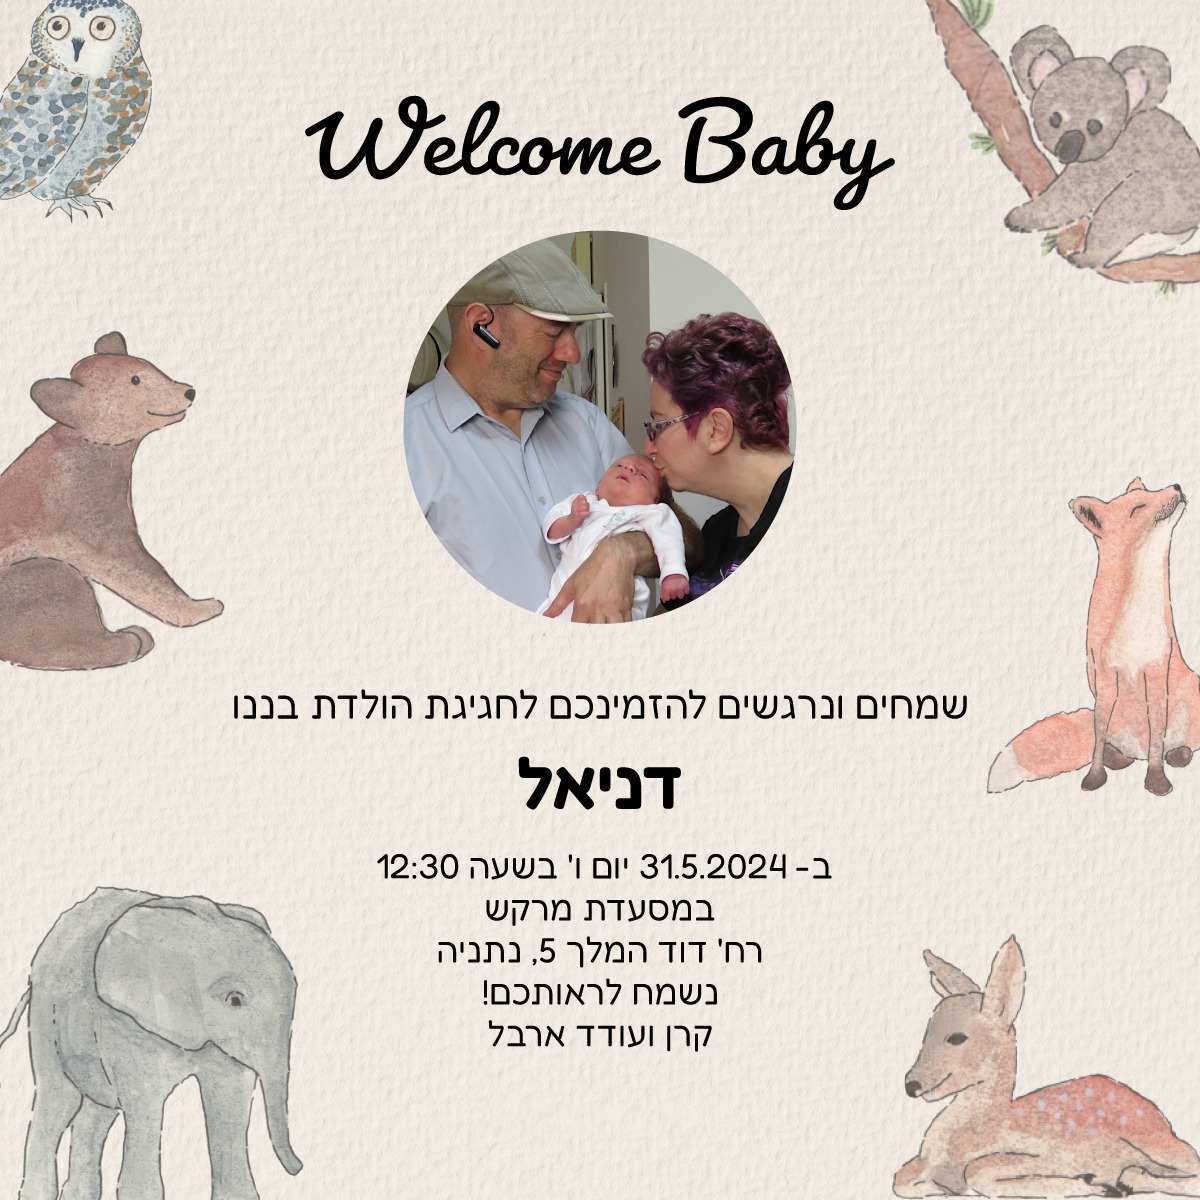
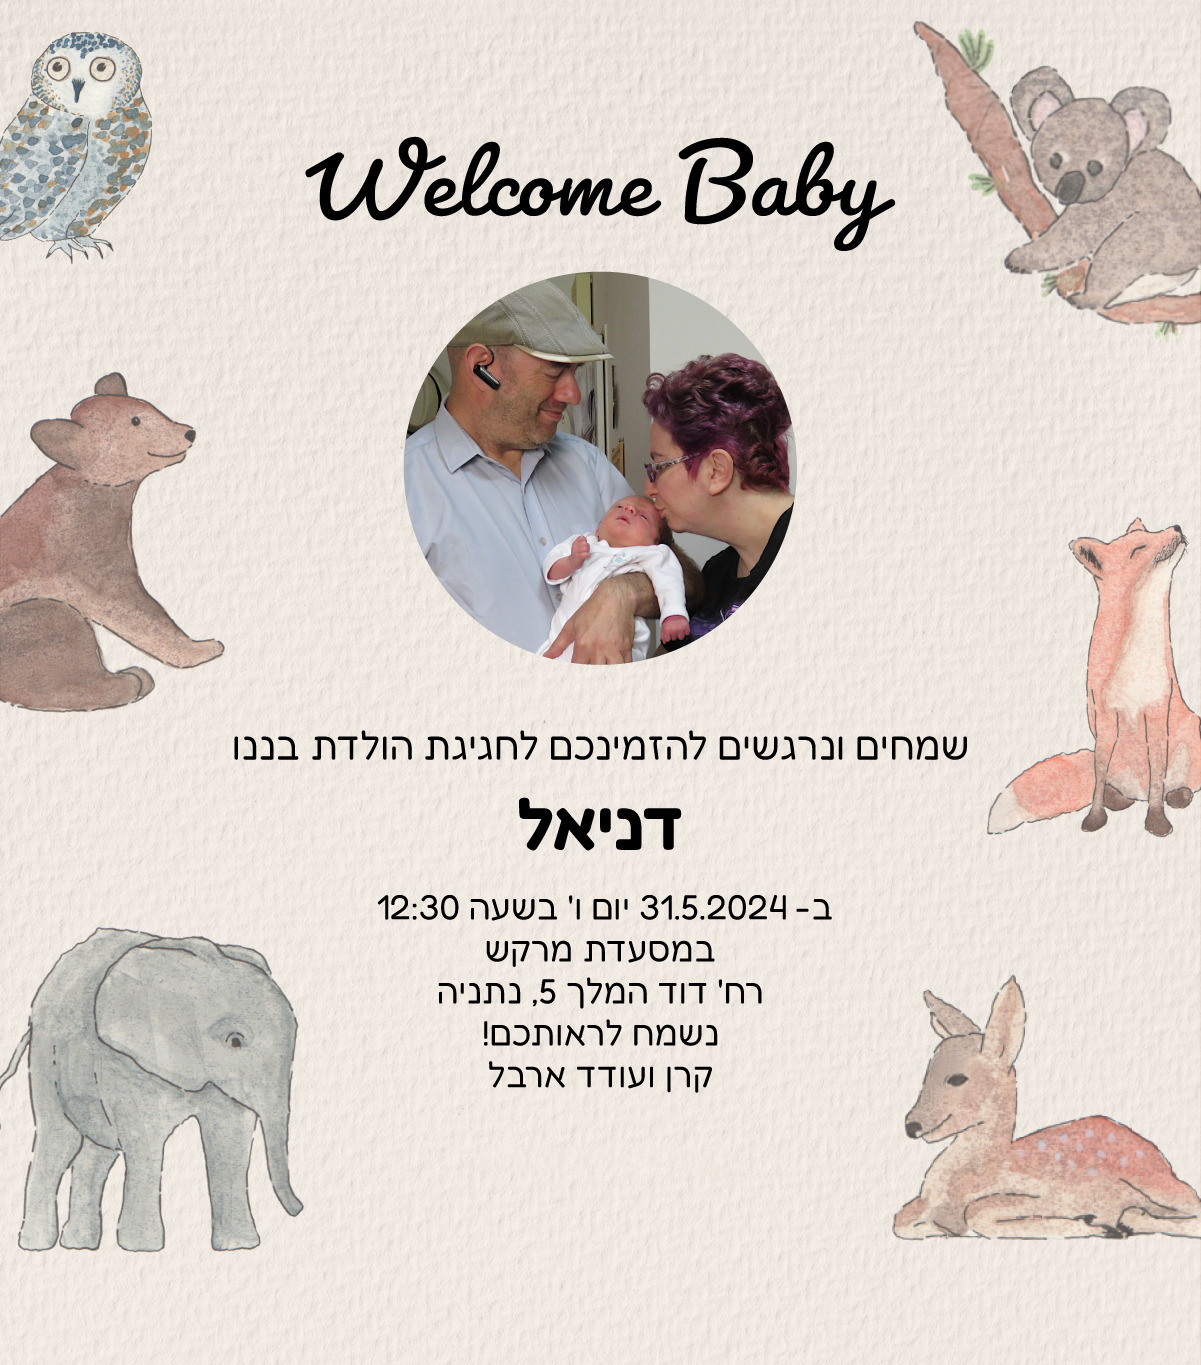
fixed images

diff --git a/src/app/app.component.scss b/src/app/app.component.scss
@@ -61,9 +61,9 @@ main {
   padding: 0 1rem 1rem;
   box-sizing: inherit;
   position: relative;
-  background-image: url('../assets/background.jpeg');
+  background-image: url('../assets/artboard.jpeg');
   background-repeat: repeat;
-  background-size: 192px;
+  background-size: 800px;
   min-height: 100vh;
 }
 

diff --git a/src/styles.scss b/src/styles.scss
@@ -10,6 +10,8 @@ body { margin: 0; font-family: Roboto, "Helvetica Neue", sans-serif; }
 .titlecard {
   width: 800px;
   max-width: 100vw;
+  overflow-y: visible;
+  height: 800px;
   img {
     width: 800px;
     max-width: 100vw;

diff --git a/src/app/rsvp/rsvp.component.scss b/src/app/rsvp/rsvp.component.scss
@@ -3,7 +3,7 @@
   flex-direction: column;
   align-items: center;
   justify-content: center;
-  padding-top: 1em;
+  padding: 0;
   width: 100%;
 }
 
